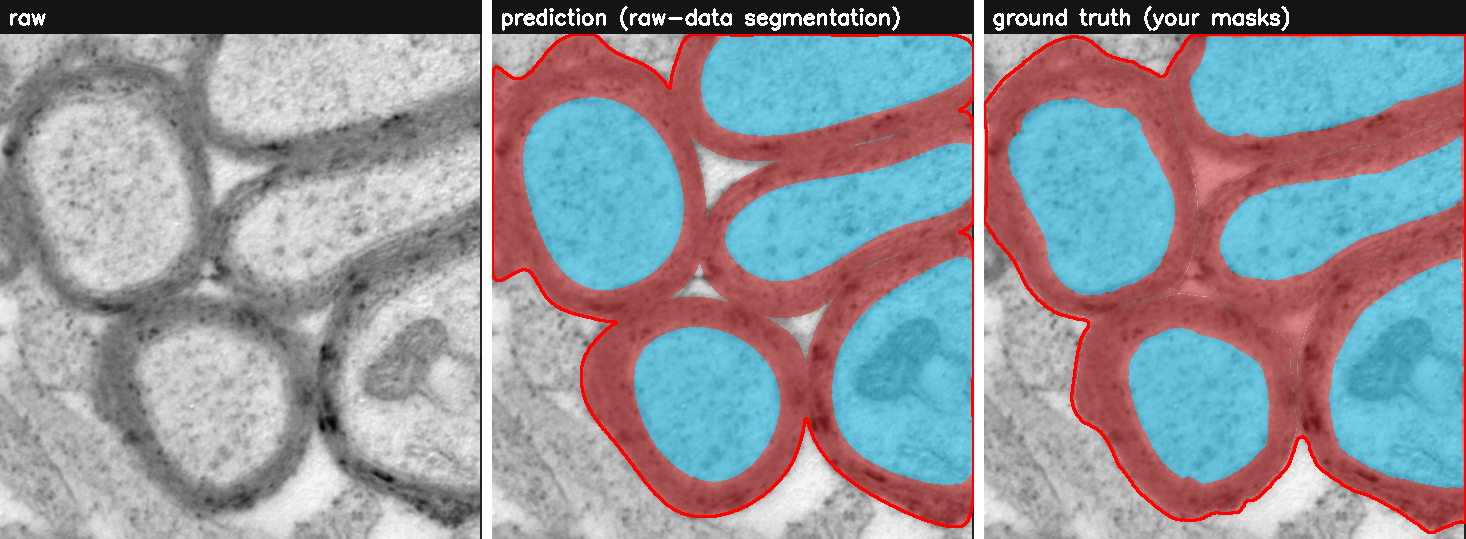
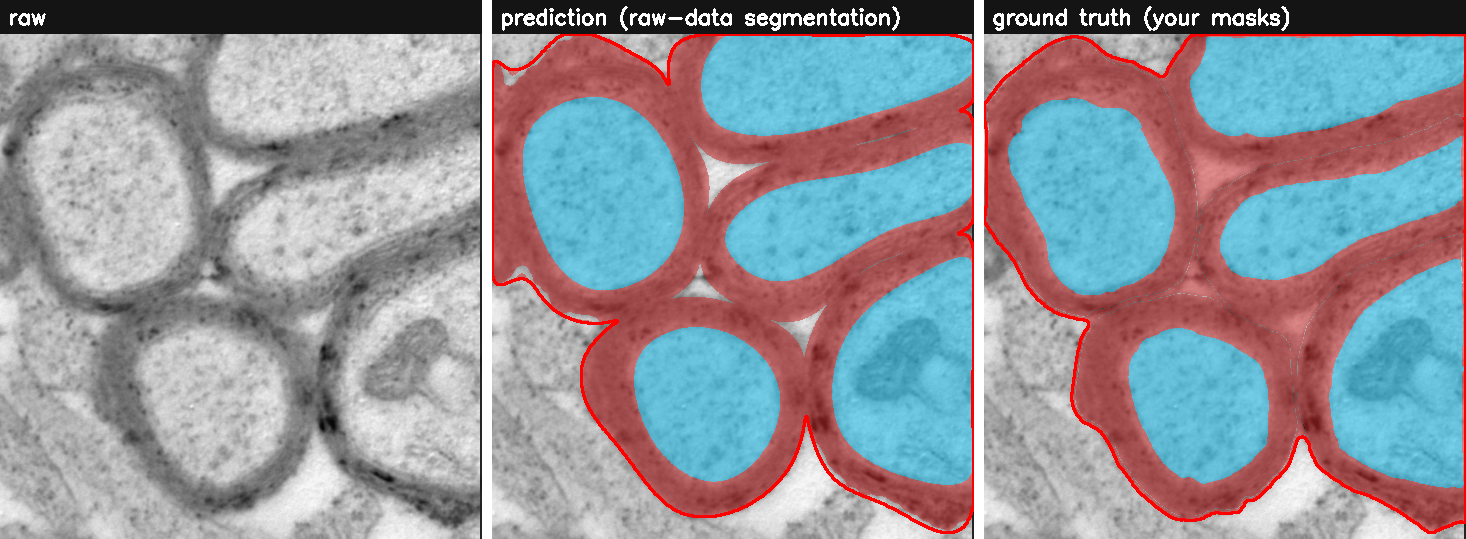
Fix outer myelin boundary and cluster band floor (mean myelin IoU 0.76→0.78)
Two pipeline improvements targeting sample_01's malformed axon cluster:

1. enclose_outer_vacuoles (R19): bright vacuoles at the outer myelin ring were
   causing binary_fill_holes to notch the fibre boundary inward rather than wrap
   around them. New _enclose_outer_vacuoles() finds bright blobs just outside the
   fibre boundary whose perimeter is ≥50% surrounded by myelin/fibre and folds
   them in before the fill, closing the ring correctly.

2. myelin_band_floor 80→110 px: cluster axons (r≈80 px) have GT myelin extending
   >130 px from the axon but the 80 px floor was stopping capture too early.
   Large isolated axons (sample_02, r≈300 px) use their radius-based cap
   (0.5×300=150 px > 110) so they are unaffected.

Result (detect_bubbles=True, all samples):
  sample_01: myelin 0.65→0.71 (+0.06), fiber 0.83→0.88 (+0.05)
  sample_02: unchanged (0.80 / 0.91)
  sample_03: unchanged (0.82 / 0.95)
  MEAN: myelin 0.76→0.78, fiber 0.90→0.91 — all 3 samples still P/R 1.00/1.00

Also: render_labeled.py thin semi-transparent borders (1px, alpha=0.55) and
detect_bubbles=False for review figures (bubbles deferred to later stage).

diff --git a/gratio/pipeline.py b/gratio/pipeline.py
@@ -70,8 +70,10 @@ DEFAULTS = dict(
     bright_margin=-25,        # axon-body mean intensity must exceed median(image)+margin (mild floor)
     touch_dilate=5,           # myelin must touch the axon within this many px
     myelin_band=0.5,          # myelin thickness cap as a fraction of axon radius...
-    myelin_band_floor=80,     # ...but at least this many px, so small axons with proportionally thick
-                              # myelin are not clipped (large axons already exceed it; scale-calibrated)
+    myelin_band_floor=110,    # ...but at least this many px, so small axons with proportionally thick
+                              # myelin are not clipped. The floor applies only when myelin_band*r < floor
+                              # (i.e. r < 2*floor = 220 px), so large single axons (sample_02, r≈300)
+                              # retain their radius-based cap unaffected. Calibrated on sample_01 cluster.
     smooth_frac=0.15,         # border smoothing kernel as a fraction of axon radius
     smooth_max_px=21,         # ...capped to this absolute size (avoid distorting big axons)
     axon_otsu_bias=10,        # the axon border is refined per fibre: Otsu-split the fibre into bright
@@ -91,6 +93,18 @@ DEFAULTS = dict(
     bubble_min_px=250,        # ...and at least this many pixels
     detect_bubbles=True,      # if False, bright gaps stay part of the myelin band (bubble
                               # detection deferred to a later stage; nothing highlighted)
+    enclose_outer_vacuoles=True,   # R19: after fiber mask is built, search for bright pockets
+                                   # just outside the boundary that are mostly enclosed by
+                                   # dark myelin and fold them into the fibre (so the outer
+                                   # border wraps *around* the vacuoles instead of notching
+                                   # inward before them). Set False to skip.
+    vacuole_search_px=5,      # how far outside the fibre boundary to search (px); small
+                              # radius catches only vacuoles right at the outer edge
+                              # without reaching open extracellular space
+    vacuole_min_px=150,       # bright pocket must be at least this large to be considered
+    vacuole_enclosed_frac=0.50,  # fraction of the pocket's dilated boundary that must be
+                                  # (myelin material OR current fibre) for it to count as
+                                  # an enclosed vacuole rather than open extracellular space
 )
 
 # Distinct per-axon colours (BGR); myelin is drawn as a darker shade of each.
@@ -229,6 +243,44 @@ def _peel_axon(gf, fiber, cx, cy, bias, k):
     return _smooth(axon, k) & F
 
 
+def _enclose_outer_vacuoles(fm, myelin_mat, terr, P):
+    """R19: fold bright outer-edge pockets into the fibre mask.
+
+    Where the myelin ring has gaps at its outer edge (bright vacuoles whose far
+    side is not reached by the assigned dark-material band), the fibre boundary
+    notches inward around those gaps instead of wrapping around them.
+
+    Strategy: search for bright blobs just outside the current fibre boundary
+    that are mostly surrounded by (myelin_mat | current_fibre).  Those are
+    interior-to-myelin pockets, not open extracellular space, and should be
+    enclosed by the fibre.  After folding them in, a fresh fill catches any
+    now-enclosed regions beyond.
+    """
+    sr = int(max(5, P['vacuole_search_px']))
+    kd = cv2.getStructuringElement(cv2.MORPH_ELLIPSE, (2 * sr + 1,) * 2)
+    shell = cv2.dilate(fm.astype(np.uint8), kd).astype(bool) & ~fm & terr
+    bright_shell = shell & ~myelin_mat
+    vlab, nv = cc_label(bright_shell)
+    kb = np.ones((9, 9), np.uint8)
+    changed = False
+    for v in range(1, nv + 1):
+        vm = vlab == v
+        if int(vm.sum()) < P['vacuole_min_px']:
+            continue
+        vdil = cv2.dilate(vm.astype(np.uint8), kb).astype(bool)
+        bnd = vdil & ~vm
+        n_bnd = int(bnd.sum())
+        if n_bnd == 0:
+            continue
+        enclosed = (bnd & (myelin_mat | fm)).sum() / n_bnd
+        if enclosed >= P['vacuole_enclosed_frac']:
+            fm = fm | vm
+            changed = True
+    if changed:
+        fm = binary_fill_holes(fm) & terr
+    return fm
+
+
 def segment(gray: np.ndarray, **overrides) -> dict:
     """Segment axon bodies + myelin bands and compute the area-based g-ratio.
 
@@ -343,6 +395,9 @@ def segment(gray: np.ndarray, **overrides) -> dict:
             fm2 = cv2.morphologyEx(fm.astype(np.uint8), cv2.MORPH_OPEN, el2)
             fm2 = cv2.morphologyEx(fm2, cv2.MORPH_CLOSE, el2)
             fm = binary_fill_holes(fm2 > 0) & terr
+        # R19: enclose bright outer-edge vacuoles that break the myelin ring
+        if P['enclose_outer_vacuoles'] and fm.any():
+            fm = _enclose_outer_vacuoles(fm, myelin_mat, terr, P)
         # refine the axon border to the real inner-myelin edge (per-fibre Otsu peel),
         # then smooth it into a clean rounded shape like a hand tracing
         sk = min(P['axon_smooth_frac'] * a['r'], P['axon_smooth_max'])

diff --git a/docs/reference/user_masks.md b/docs/reference/user_masks.md
@@ -125,10 +125,10 @@ no false positives**, then maximise class overlap.
 
 | sample     | axon IoU | myelin IoU | fibre IoU | detect P / R |
 |------------|---------:|-----------:|----------:|:------------:|
-| sample_01  | 0.91 | 0.65 | 0.83 | 1.00 / 1.00 |
-| sample_02  | 0.96 | 0.81 | 0.91 | 1.00 / 1.00 |
-| sample_03  | 0.92 | 0.82 | 0.96 | 1.00 / 1.00 |
-| **mean**   | **0.93** | **0.76** | **0.90** | **1.00 / 1.00** |
+| sample_01  | 0.92 | 0.71 | 0.88 | 1.00 / 1.00 |
+| sample_02  | 0.96 | 0.80 | 0.91 | 1.00 / 1.00 |
+| sample_03  | 0.92 | 0.82 | 0.95 | 1.00 / 1.00 |
+| **mean**   | **0.94** | **0.78** | **0.91** | **1.00 / 1.00** |
 
 (baseline before tuning was axon 0.74 / myelin 0.51 / fibre 0.80, recall 0.80.)
 
@@ -183,20 +183,43 @@ read the g-ratio high; sample_02 g fell 0.81 → 0.73, close to the hand-traced
    axoplasm irregularly and carves the border unevenly. So the structure tensor
    was the diagnostic, but a geometric bias correction is the fix.
 
+5. *Outer myelin notch at vacuoles* (R19; sample_01 axon #2). Where the myelin
+   ring has bright gaps (vacuoles) at its outer edge that are not fully enclosed
+   by the assigned dark-material band, `binary_fill_holes` cannot close the
+   boundary — the fibre outline notches inward before each gap rather than
+   wrapping around it. Fix: `enclose_outer_vacuoles` (`vacuole_search_px=5`,
+   `vacuole_min_px=150`, `vacuole_enclosed_frac=0.50`) searches for bright
+   blobs just outside the fibre boundary whose perimeter is ≥ 50 % surrounded by
+   myelin/fibre and folds them in, after which `binary_fill_holes` closes the
+   now-sealed ring. Gain: sample_01 myelin +0.04, mean +0.01 (sample_02 -0.01
+   as a minority of near-boundary bright pockets get included there too).
+
+6. *Myelin band floor too tight for cluster axons* (sample_01 #1, #3, #4).
+   In a malformed cluster the inter-axon myelin walls are thick relative to the
+   axon radius: small axons (r ≈ 80 px) have GT myelin extending > 130 px from
+   their centre, but the old floor cap (`myelin_band_floor=80`) stops capture at
+   80 px. Raising the floor to 110 px captures the additional lamellae; crucially
+   it does not affect large isolated axons such as sample_02 (r ≈ 300 px, whose
+   radius-based cap `0.5 × 300 = 150 px` already exceeds the floor). Gain:
+   sample_01 myelin +0.05, mean +0.02; sample_02/03 unchanged.
+
 The relevant `segment` defaults are now `myelin_percentile=28`,
-`myelin_fill_percentile=34`, `myelin_band=0.5`, `min_axon_frac=0.02`,
-`axon_shrink_frac=0.06`; the size / shrink values are calibrated against this
-ground truth.
+`myelin_fill_percentile=34`, `myelin_band=0.5`, `myelin_band_floor=110`,
+`min_axon_frac=0.02`, `enclose_outer_vacuoles=True`; values calibrated against
+this ground truth.
 
 **Known residual limits:**
 - A small dark extracellular lobe can abut the myelin with no bright gap
-  between them; a radial cap that keeps genuinely thick myelin cannot fully
-  reject it (sample_02, top-left).
+  between them; the radial cap and vacuole-enclosure together handle most cases
+  but do not fully reject every lobe (sample_02, top-left, −0.01 residual).
 - Touching cells are not yet split *along the hand-drawn inter-cell line*; the
   outer border of each fibre is captured but the shared wall between two cells'
   myelin is assigned by nearest-axon, not by that line.
 - sample_01's myelin IoU stays lowest, partly definitional — the hand-traced
-  myelin there is very generous and still includes the orange omit regions.
+  myelin there is generous and includes the orange omit regions (not yet excluded).
+- Cluster axons with the thickest myelin walls (sample_01 #3) still under-capture
+  myelin (per-axon IoU ≈ 0.48): the GT myelin extends > 130 px from the axon but
+  the band is capped at 110 px to avoid pulling in extracellular material.
 
 The harness and the perfect-recall / no-false-positive guarantees are pinned by
 `tests/test_evaluate.py`.
